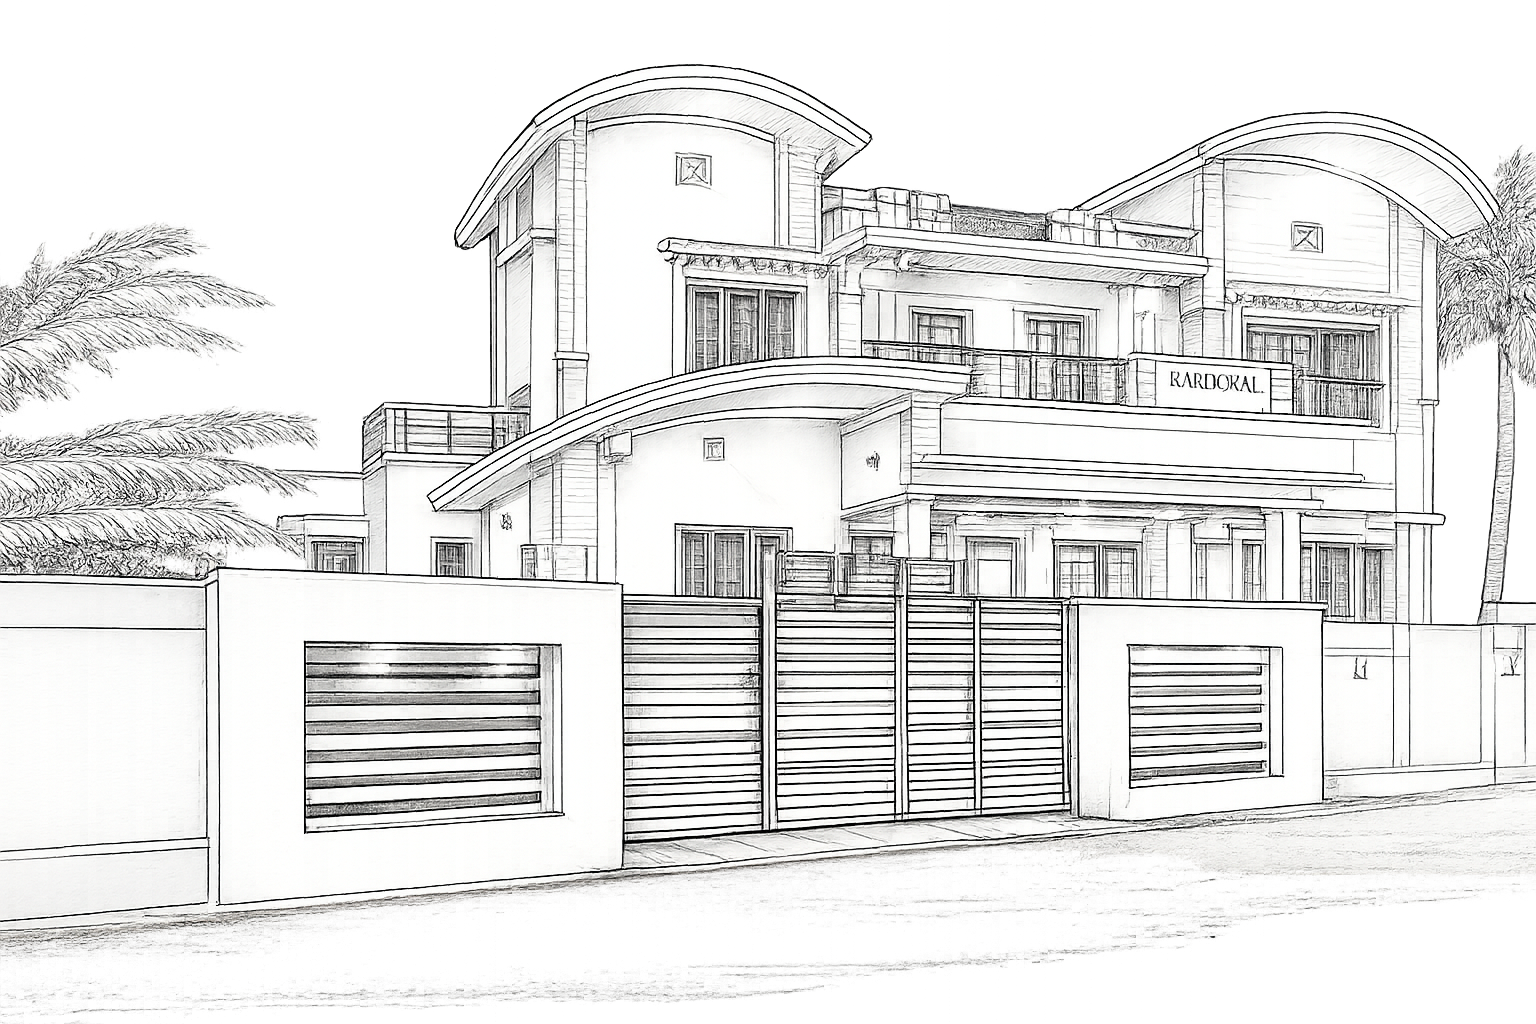
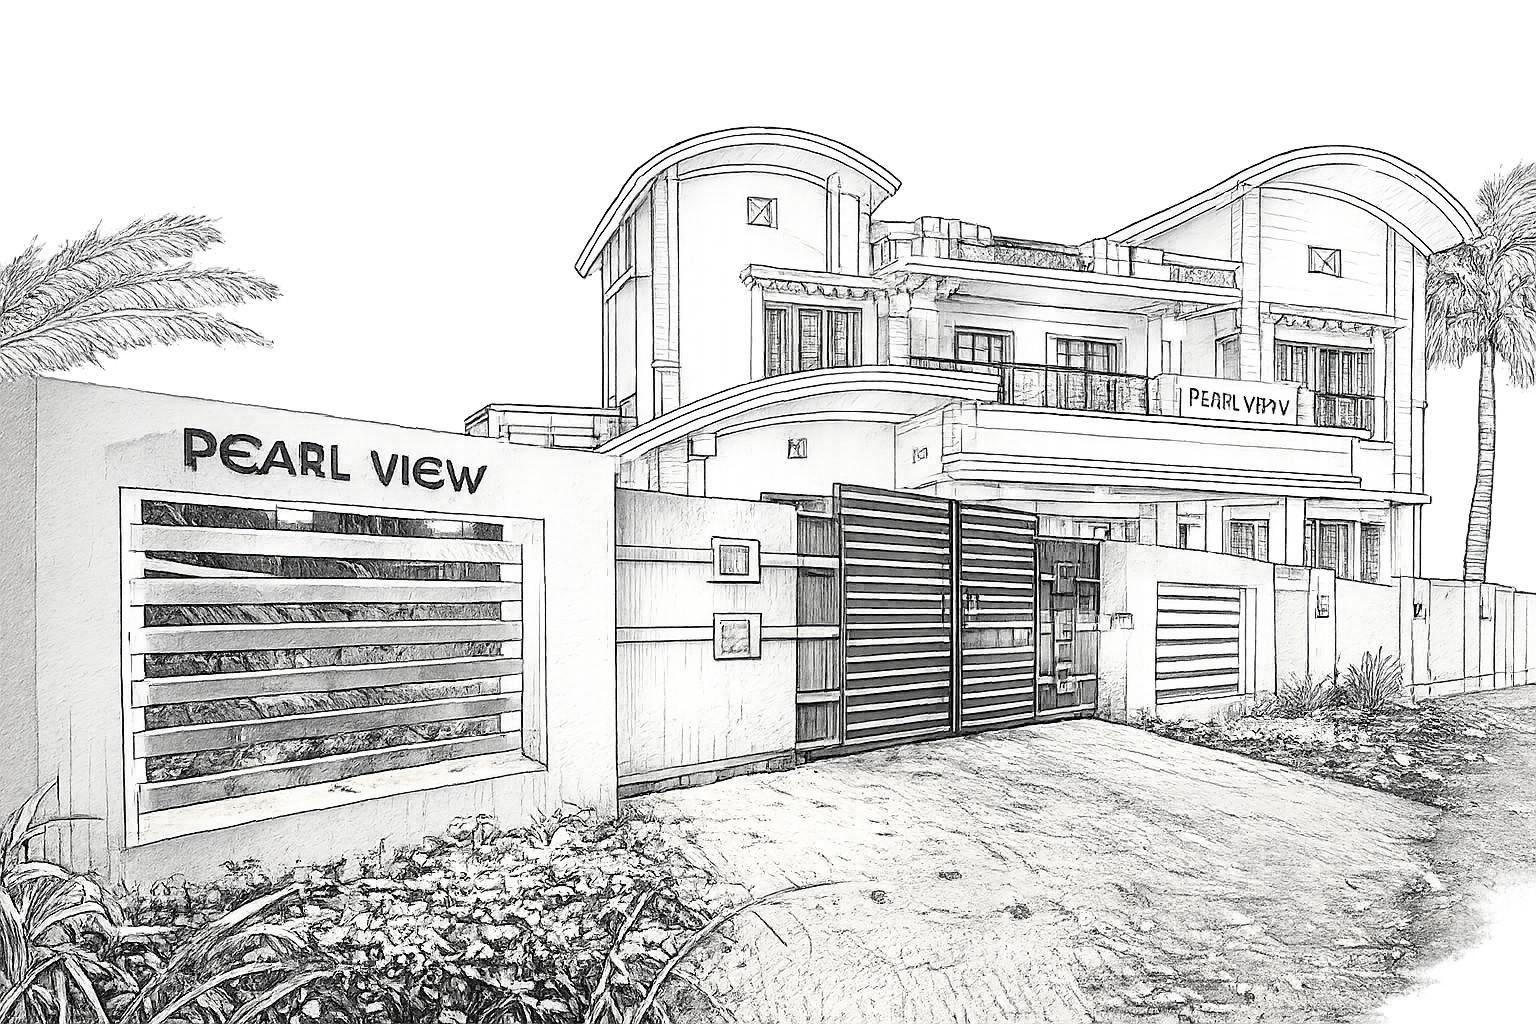
song changed hero image changed

diff --git a/index.html b/index.html
@@ -176,17 +176,17 @@
                      src="./assets/flower-white-large.webp" alt="" aria-hidden="true" />
                 <ul class="schedule-list">
                   <li class="schedule-item">
-                    <span class="sch-time">2:00 pm</span>
+                    <span class="sch-time">3:00 pm</span>
                     <span class="sch-dot"></span>
                     <span class="sch-event">Guest arrival<br>&amp; seating</span>
                   </li>
                   <li class="schedule-item">
-                    <span class="sch-time">3:30 pm</span>
+                    <span class="sch-time">4:30 pm</span>
                     <span class="sch-dot"></span>
                     <span class="sch-event">Nikah<br>ceremony @ Pearl View</span>
                   </li>
                   <li class="schedule-item">
-                    <span class="sch-time">4:00 pm</span>
+                    <span class="sch-time">After Nikah</span>
                     <span class="sch-dot"></span>
                     <span class="sch-event">Feast</span>
                   </li>
@@ -221,7 +221,7 @@
                       decoding="async"
                     />
                   </span>
-                  Location
+                  Google Maps
                 </a>
                 <p class="venue-map-hint">Click to get directions</p>
               </div>